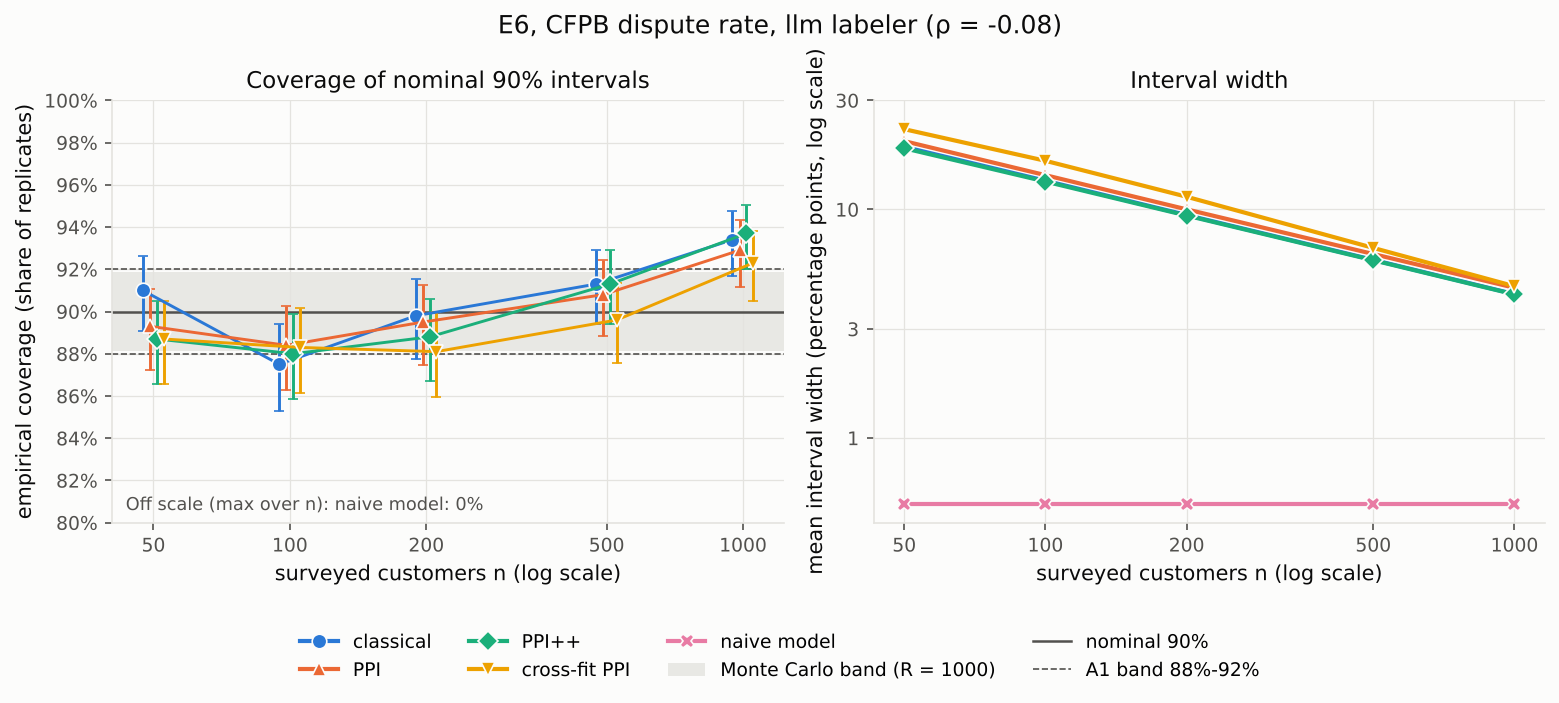
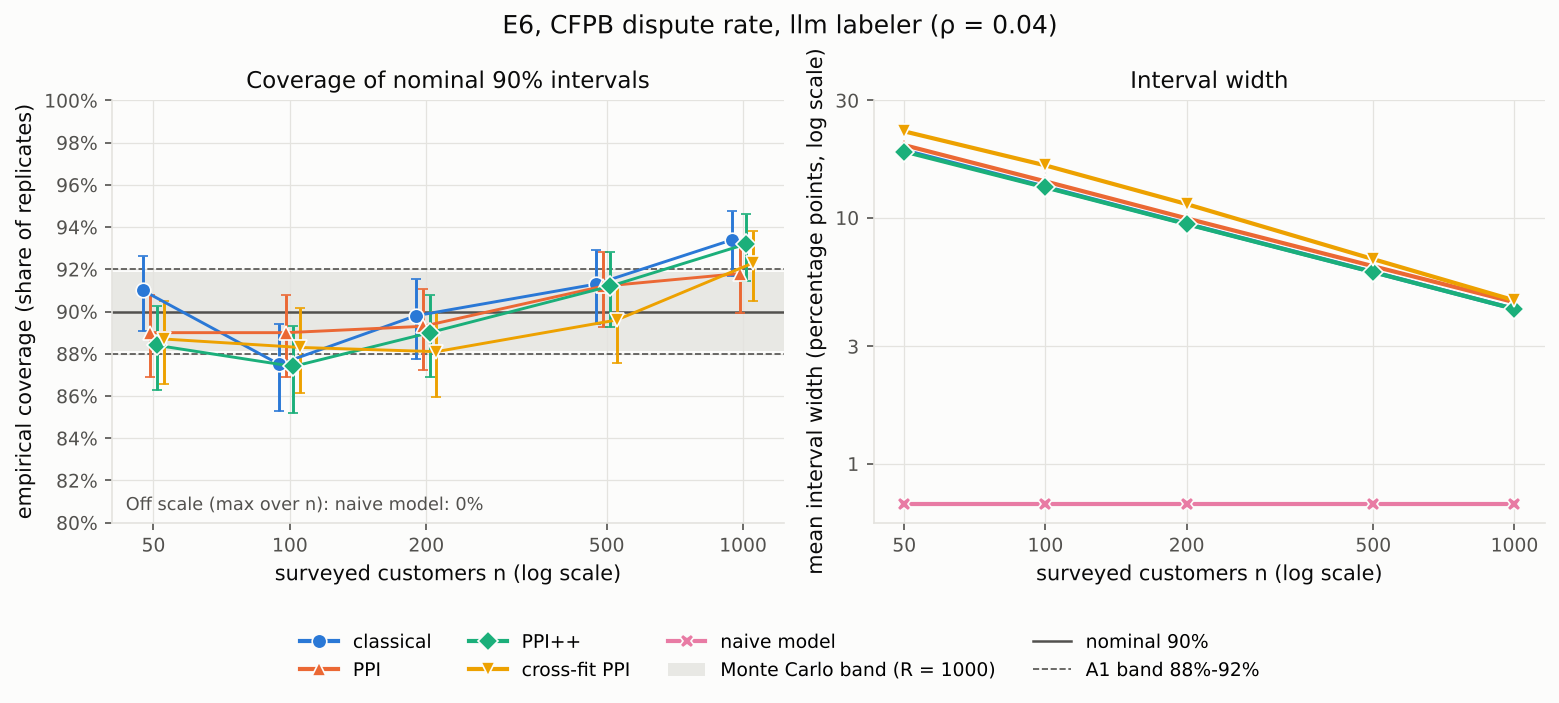
Rerun E6 with Qwen3.5-4B labels and pin the labels-v1 release archive
Claude-Session: https://claude.ai/code/session_01Q6u89m74gV2ZPQ88GmbkB6

diff --git a/tests/unit/test_label_release.py b/tests/unit/test_label_release.py
@@ -110,3 +110,9 @@ def test_fetch_requires_a_published_release(tmp_path: Path) -> None:
     cfg.write_text("url: null\nsha256: null\n")
     with pytest.raises(ValueError, match="not published"):
         cache_mod.fetch(cfg, cache_dir=tmp_path / "c", download_dir=tmp_path / "d")
+
+
+def test_repo_labels_config_is_pinned() -> None:
+    raw = cache_mod.load_release_config(Path("configs/labels.yaml"))
+    assert raw["url"].startswith("https://github.com/RaghavAtRuntime/silent97/releases/download/")
+    assert len(raw["sha256"]) == 64

diff --git a/docs/progress/phase-3.md b/docs/progress/phase-3.md
@@ -526,3 +526,99 @@ clean clone has to rebuild them (G5 will need to account for this).
    I note it for `docs/ideas.md` only if you want it.
 
 Phase 3 stops here for review.
+
+---
+
+## Update, session 2 (continued, 2026-10-12): stronger LLM and release download
+
+Reviewer decisions: the label cache is distributed as a GitHub release download, and
+the LLM labeler should use the strongest model that runs comfortably on a Mac M1.
+
+### Model choice: `Qwen/Qwen3.5-4B` (revision `851bf6e8…`, Apache-2.0)
+
+- **Constraint.** A 16 GB M1 runs PyTorch on `mps` in bf16, so about 4–5B parameters is the
+  comfortable limit (8–9 GB of weights). The 8–9B candidates (Qwen3.5-9B, Gemma-4-E4B at
+  8B stored parameters, Granite-4.1-8B, Olmo-3-7B) need 16–19 GB in bf16. Gated or
+  non-Apache models (Llama 3.2, the Gemma 3 family, Qwen2.5-3B) were excluded, because
+  downloading them needs a login or they carry restrictive licenses.
+- **Candidates checked** on 8 complaints from the labeler-training split. The evaluation
+  pool was not used for selection.
+  - Qwen3.5-4B (Feb 2026, the newest generation at this size) gave graded probabilities,
+    with about 99% of next-token mass on A/B/C once thinking is off.
+  - Qwen3-4B-Instruct-2507 put probability 1.000 on "detractor" for all 8 complaints. That
+    saturates the readout, so PPI would get no ranking information from it.
+- **Code changes** (`labelers/llm.py`, tests first):
+  1. `render_prompt` passes `enable_thinking=False`; otherwise Qwen3.5's next token is
+     `<think>`.
+  2. `weights_dtype`: linear weights are stored in bf16 and each layer computes in float32
+     (`upcast_linears`). This x86 CPU has no native bf16: a bf16 matmul runs at 116 GFLOP/s
+     against 491 for float32, while a float32 copy (17 GB) does not fit in 15 GB of RAM. On a
+     Mac, the config comment says to use `device: mps`, `dtype: bfloat16`.
+  3. Batches are sorted by text length, so less compute goes to padding.
+  4. New tests: length-sorted batching maps results back correctly; dtype validation;
+     thinking is disabled in the rendered prompt; `upcast_linears` equals a float32 model with
+     the same weights; and on a **tiny random Qwen3.5-style hybrid model** (linear-attention
+     plus full-attention layers), left padding does not change any score, and upcast equals
+     float32. On the real Qwen3.5-4B, batched scores matched one-at-a-time scores to
+     6.7e-7 on 4 complaints.
+- `configs/llm.yaml`: model, revision, `weights_dtype: bfloat16`, `tokens_per_second: 32`
+  (measured). `max_items` was raised to 10,000, because the cap is cumulative over the cache and
+  the Qwen2.5-0.5B run already used 4,992.
+
+### Scoring run
+
+- 4,992 complaints scored (8 duplicate texts), **0 invalid**, $0, CPU only. The wall-clock was
+  about 12.6 h of scoring, in seven chunks.
+- The first attempt ran as a detached process and died when the container was reclaimed
+  while the session was idle (after 72 items, which stayed cached). The rest ran as tracked
+  background chunks of under 2 h each, resuming from the cache. Per-chunk logs are in the
+  session; the ledger has one line per scored item.
+
+### E6 with Qwen3.5-4B (`docs/results/e06_cfpb_*`, 1,000 replicates, same seed and pool)
+
+The tabular and embedding results are byte-identical to the previous run. LLM rows:
+
+| | Qwen2.5-0.5B (before) | Qwen3.5-4B (now) |
+|---|---|---|
+| ρ with disputing | −0.083 | **0.041** |
+| mean P(detractor) vs true rate 21.3% | 73.8% | 81.8% (naive-model bias +60.5 points) |
+| effective n at n = 1,000: PPI / PPI++ / cross-fit | 880 / 1,006 / 852 | 883 / 1,002 / 852 |
+| PPI++ mean λ̂ | −0.33 → −0.25 | 0.10 → 0.09 |
+| coverage cells in A1 band (of 20 valid) | 19 | **20** |
+
+All valid cells: **58 of 60** in the A1 band. The two misses (tabular classical 0.940 and
+tabular PPI 0.938, both at n = 1,000) are the finite-pool over-coverage predicted above.
+
+**The stronger model does not help on this task.** Its correlation with disputing is
+0.041, which is effectively zero; PPI++ correctly gives it almost no weight (λ̂ ≈ 0.1), so
+the interval matches classical. Plain PPI loses 12% efficiency. My reading is that this is a
+*task mismatch*, not a weak model. The zero-shot prompt asks whether the writer is a
+detractor, passive or promoter, and almost every complaint is a detractor by that
+standard. Whether the consumer later *disputes the company's response* depends on that
+response, which the labeler does not see by design (`LABELER_FEATURES`). The supervised
+embedding labeler, trained on dispute labels, reaches ρ = 0.18. A dispute-specific prompt
+might do better; that is a prompt change, so it is listed as open question 2.
+
+### Release download
+
+- `labelers/cache.py`:
+  - `pack` writes a deterministic `.tar.gz` (sorted members, zeroed times and owners, no
+    gzip filename). Packing twice gives the same SHA-256.
+  - `unpack` verifies the SHA-256 and rejects unsafe paths. It skips identical files and
+    refuses to overwrite a differing one.
+  - `fetch` downloads the archive named in `configs/labels.yaml` once.
+- Makefile targets: `pack-labels` and `fetch-labels`. The README has the reproduce steps
+  (`make cfpb`, `make fetch-labels`, `make reproduce`).
+- **Archive `silent97-labels.tar.gz`:** 54,973,418 bytes, SHA-256
[1 lines of base64/hex data omitted]
+  cache files: both LLMs' scores, the ledger and the two embedding matrices. Unpacking it
+  into an empty directory reproduces `cache/` exactly (`diff -r`).
+- **Not yet published.** I cannot create releases from this environment. The
+  owner creates release `labels-v1` and uploads the file; then `make fetch-labels` works.
+
+### Open questions
+
+1. **Release upload** (above). After it, I will verify `make fetch-labels` against the live URL.
+2. **LLM prompt for dispute.** Keep the NPS-category prompt (consistent with the simulator
+   framing; result reported as is), or add a dispute-specific prompt version for E6? The
+   second would be another rescoring run of about 12.6 hours.

diff --git a/docs/results/e06_cfpb_summary.md b/docs/results/e06_cfpb_summary.md
@@ -29,31 +29,31 @@ Generated by `experiments/e06_cfpb.py` (1000 replicates, seed 20261014). Pool of
 | embedding (0.179) | ppi_pp | 200 | 0.896 [0.876, 0.913] | yes | 9.31 | -0.05 | 207 |
 | embedding (0.179) | ppi_pp | 500 | 0.927 [0.909, 0.942] | yes | 5.92 | -0.02 | 516 |
 | embedding (0.179) | ppi_pp | 1000 | 0.933 [0.916, 0.947] | yes | 4.20 | +0.01 | 1027 |
-| llm (-0.083) | classical | 50 | 0.910 [0.891, 0.926] | yes | 18.78 | +0.02 | 50 |
-| llm (-0.083) | classical | 100 | 0.875 [0.853, 0.894] | yes | 13.36 | -0.07 | 100 |
-| llm (-0.083) | classical | 200 | 0.898 [0.878, 0.915] | yes | 9.45 | -0.22 | 200 |
-| llm (-0.083) | classical | 500 | 0.913 [0.894, 0.929] | yes | 6.02 | -0.00 | 500 |
-| llm (-0.083) | classical | 1000 | 0.934 [0.917, 0.948] | yes | 4.26 | +0.04 | 1000 |
-| llm (-0.083) | naive_model | 50 | 0.000 [0.000, 0.004] | NO | 0.51 | +52.51 | 66552 |
-| llm (-0.083) | naive_model | 100 | 0.000 [0.000, 0.004] | NO | 0.51 | +52.51 | 67321 |
-| llm (-0.083) | naive_model | 200 | 0.000 [0.000, 0.004] | NO | 0.51 | +52.51 | 67460 |
-| llm (-0.083) | naive_model | 500 | 0.000 [0.000, 0.004] | NO | 0.51 | +52.51 | 68311 |
-| llm (-0.083) | naive_model | 1000 | 0.000 [0.000, 0.004] | NO | 0.51 | +52.51 | 68519 |
-| llm (-0.083) | ppi | 50 | 0.893 [0.872, 0.911] | yes | 19.91 | +0.05 | 45 |
-| llm (-0.083) | ppi | 100 | 0.884 [0.863, 0.902] | yes | 14.13 | -0.01 | 89 |
-| llm (-0.083) | ppi | 200 | 0.895 [0.874, 0.913] | yes | 10.01 | -0.20 | 178 |
-| llm (-0.083) | ppi | 500 | 0.908 [0.888, 0.924] | yes | 6.38 | -0.01 | 444 |
-| llm (-0.083) | ppi | 1000 | 0.929 [0.911, 0.943] | yes | 4.54 | +0.03 | 880 |
-| llm (-0.083) | ppi_crossfit | 50 | 0.887 [0.866, 0.905] | yes | 22.45 | -0.07 | 35 |
-| llm (-0.083) | ppi_crossfit | 100 | 0.883 [0.862, 0.901] | yes | 16.33 | -0.25 | 67 |
-| llm (-0.083) | ppi_crossfit | 200 | 0.881 [0.859, 0.900] | yes | 11.37 | -0.28 | 138 |
-| llm (-0.083) | ppi_crossfit | 500 | 0.896 [0.876, 0.913] | yes | 6.79 | +0.01 | 393 |
-| llm (-0.083) | ppi_crossfit | 1000 | 0.923 [0.905, 0.938] | yes | 4.62 | +0.02 | 852 |
-| llm (-0.083) | ppi_pp | 50 | 0.887 [0.866, 0.905] | yes | 18.53 | -0.00 | 51 |
-| llm (-0.083) | ppi_pp | 100 | 0.880 [0.858, 0.899] | yes | 13.25 | -0.09 | 102 |
-| llm (-0.083) | ppi_pp | 200 | 0.888 [0.867, 0.906] | yes | 9.40 | -0.23 | 202 |
-| llm (-0.083) | ppi_pp | 500 | 0.913 [0.894, 0.929] | yes | 5.99 | +0.00 | 504 |
-| llm (-0.083) | ppi_pp | 1000 | 0.937 [0.920, 0.950] | NO | 4.25 | +0.04 | 1006 |
+| llm (0.041) | classical | 50 | 0.910 [0.891, 0.926] | yes | 18.78 | +0.02 | 50 |
+| llm (0.041) | classical | 100 | 0.875 [0.853, 0.894] | yes | 13.36 | -0.07 | 100 |
+| llm (0.041) | classical | 200 | 0.898 [0.878, 0.915] | yes | 9.45 | -0.22 | 200 |
+| llm (0.041) | classical | 500 | 0.913 [0.894, 0.929] | yes | 6.02 | -0.00 | 500 |
+| llm (0.041) | classical | 1000 | 0.934 [0.917, 0.948] | yes | 4.26 | +0.04 | 1000 |
+| llm (0.041) | naive_model | 50 | 0.000 [0.000, 0.004] | NO | 0.69 | +60.49 | 37489 |
+| llm (0.041) | naive_model | 100 | 0.000 [0.000, 0.004] | NO | 0.69 | +60.49 | 37922 |
+| llm (0.041) | naive_model | 200 | 0.000 [0.000, 0.004] | NO | 0.69 | +60.49 | 38000 |
+| llm (0.041) | naive_model | 500 | 0.000 [0.000, 0.004] | NO | 0.69 | +60.49 | 38480 |
+| llm (0.041) | naive_model | 1000 | 0.000 [0.000, 0.004] | NO | 0.69 | +60.49 | 38597 |
+| llm (0.041) | ppi | 50 | 0.890 [0.869, 0.908] | yes | 19.74 | +0.00 | 45 |
+| llm (0.041) | ppi | 100 | 0.890 [0.869, 0.908] | yes | 14.05 | -0.04 | 90 |
+| llm (0.041) | ppi | 200 | 0.893 [0.872, 0.911] | yes | 9.94 | -0.15 | 181 |
+| llm (0.041) | ppi | 500 | 0.912 [0.893, 0.928] | yes | 6.35 | -0.02 | 449 |
+| llm (0.041) | ppi | 1000 | 0.918 [0.899, 0.933] | yes | 4.53 | +0.03 | 883 |
+| llm (0.041) | ppi_crossfit | 50 | 0.887 [0.866, 0.905] | yes | 22.45 | -0.07 | 35 |
+| llm (0.041) | ppi_crossfit | 100 | 0.883 [0.862, 0.901] | yes | 16.33 | -0.25 | 67 |
+| llm (0.041) | ppi_crossfit | 200 | 0.881 [0.859, 0.900] | yes | 11.37 | -0.28 | 138 |
+| llm (0.041) | ppi_crossfit | 500 | 0.896 [0.876, 0.913] | yes | 6.79 | +0.01 | 393 |
+| llm (0.041) | ppi_crossfit | 1000 | 0.923 [0.905, 0.938] | yes | 4.62 | +0.02 | 852 |
+| llm (0.041) | ppi_pp | 50 | 0.884 [0.863, 0.902] | yes | 18.59 | +0.05 | 51 |
+| llm (0.041) | ppi_pp | 100 | 0.874 [0.852, 0.893] | yes | 13.29 | -0.06 | 101 |
+| llm (0.041) | ppi_pp | 200 | 0.890 [0.869, 0.908] | yes | 9.42 | -0.23 | 201 |
+| llm (0.041) | ppi_pp | 500 | 0.912 [0.893, 0.928] | yes | 6.01 | -0.01 | 502 |
+| llm (0.041) | ppi_pp | 1000 | 0.932 [0.915, 0.946] | yes | 4.26 | +0.04 | 1002 |
 | tabular (0.074) | classical | 50 | 0.881 [0.859, 0.900] | yes | 18.72 | -0.05 | 50 |
 | tabular (0.074) | classical | 100 | 0.894 [0.873, 0.912] | yes | 13.37 | -0.02 | 100 |
 | tabular (0.074) | classical | 200 | 0.905 [0.885, 0.922] | yes | 9.47 | -0.12 | 200 |

diff --git a/README.md b/README.md
@@ -4,7 +4,7 @@ Estimate customer satisfaction (NPS) for a whole customer base from a small surv
 model predictions on everyone else, with confidence intervals that are valid and
 verified by simulation.
 
-**Status:** Phase 1 (foundations and simulator). See `docs/PLAN.md` for the
+**Status:** Phase 3 (labelers and the CFPB benchmark). See `docs/PLAN.md` for the
 specification and `docs/progress/` for phase notes.
 
 ## Quickstart
@@ -18,4 +18,14 @@ uv run python -m silent97.data.simulate --config configs/simulate.yaml
 
 The last command writes a synthetic population of 200,000 customers to
 `data/processed/sim/` as Parquet, with a JSON manifest of every parameter.
-All data in this repository is synthetic.
+
+## Reproducing the results
+
+```bash
+make cfpb                  # public CFPB complaints (CC0 mirror, SHA-256 pinned, cross-checked)
+make fetch-labels          # cached LLM scores and embeddings from the labels-v1 release
+make reproduce             # simulator, E1, E2 and E6 results and figures
+```
+
+The simulator data is synthetic. The real-text benchmark uses public CFPB complaint
+data only; the LLM labeler runs locally and nothing is sent to an external API.
